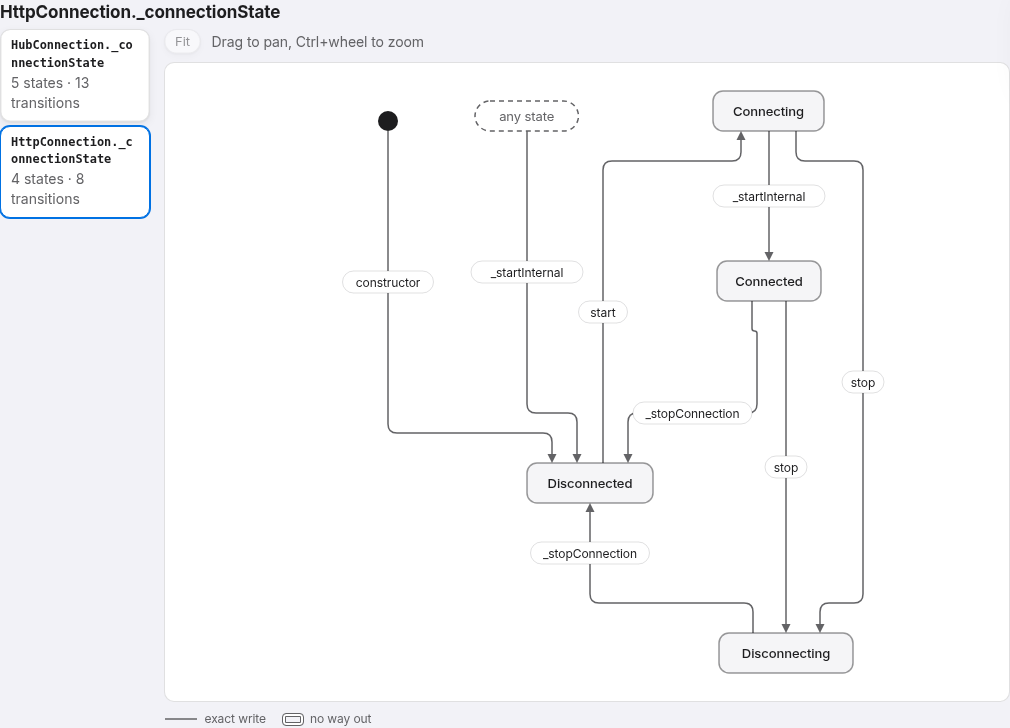
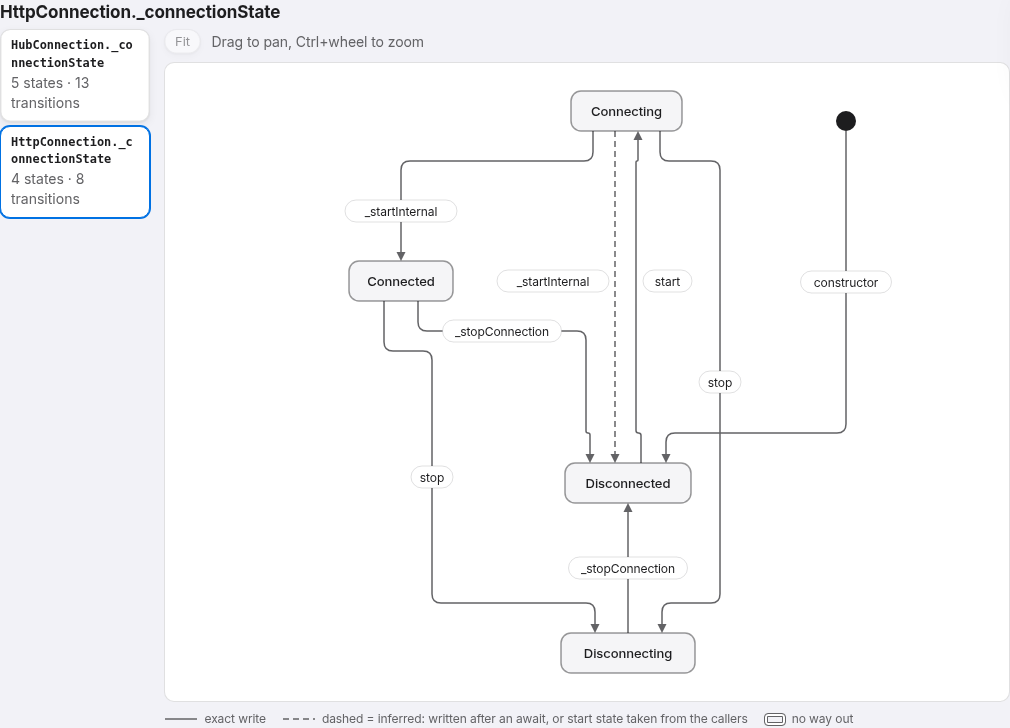
States lens: stale entry stays fillable (E1), no stale layout on view change
A write or call after an await keeps the entry value as a stale entry (fromEntry + stale,
knownEntry + knownStale); a catch with no visible try write keeps it too. StateDiagram no
longer draws the previous view's layout for the render after the view changes (first-load
TypeError reading 'confidence').

Claude-Session: https://claude.ai/code/session_011RUAPM4himdtifnGcShh8m

diff --git a/packages/frontend/typescript/src/state.ts b/packages/frontend/typescript/src/state.ts
@@ -60,14 +60,14 @@ interface KS {
  * `entry` on the map: keys that are absent still hold their entry value (nothing wrote, tested or awaited since the
  * function started). Without it an absent key is plain unknown.
  */
-type EnvMap = Map<string, KS> & { entry?: boolean };
+type EnvMap = Map<string, KS> & { entry?: boolean; entryStale?: boolean };
 type Env = EnvMap | null;
 const entryEnv = (): EnvMap => {
   const m: EnvMap = new Map();
   m.entry = true;
   return m;
 };
-const entryKS = (r: KS): KS => ({ holder: r.holder, receiver: r.receiver, set: null, stale: false, guards: [], texts: [], entry: true });
+const entryKS = (r: KS, stale = false): KS => ({ holder: r.holder, receiver: r.receiver, set: null, stale, guards: [], texts: [], entry: true });
 const unknownKS = (r: KS): KS => ({ holder: r.holder, receiver: r.receiver, set: null, stale: false, guards: [], texts: [] });
 
 interface Spec {
@@ -177,6 +177,7 @@ function clone(env: Env): Env {
   if (!env) return null;
   const out: EnvMap = new Map();
   if (env.entry) out.entry = true;
+  if (env.entryStale) out.entryStale = true;
   for (const [k, v] of env) out.set(k, cloneKS(v));
   return out;
 }
@@ -185,13 +186,14 @@ function join(a: Env, b: Env): Env {
   if (!b) return a;
   const out: EnvMap = new Map();
   out.entry = !!(a.entry && b.entry);
+  if (out.entry && (a.entryStale || b.entryStale)) out.entryStale = true;
   const keys = new Set([...a.keys(), ...b.keys()]);
   for (const k of keys) {
     const x0 = a.get(k);
     const y0 = b.get(k);
     const ref = (x0 ?? y0)!;
-    const x = x0 ?? (a.entry ? entryKS(ref) : undefined);
-    const y = y0 ?? (b.entry ? entryKS(ref) : undefined);
+    const x = x0 ?? (a.entry ? entryKS(ref, a.entryStale) : undefined);
+    const y = y0 ?? (b.entry ? entryKS(ref, b.entryStale) : undefined);
     if (!x || !y) {
       // Unknown on one side: absent means entry when the result keeps the marker, so spell the unknown out.
       if (out.entry) out.set(k, unknownKS(ref));
@@ -212,7 +214,7 @@ function join(a: Env, b: Env): Env {
 function sig(env: Env): string {
   if (!env) return "dead";
   return (
-    (env.entry ? "E|" : "|") +
+    (env.entry ? (env.entryStale ? "E!|" : "E|") : "|") +
     [...env.entries()]
       .map(([k, v]) => `${k}=${v.set ? [...v.set].sort().join(",") : "*"}${v.stale ? "!" : ""}${v.entry ? "E" : ""}`)
       .sort()
@@ -222,10 +224,10 @@ function sig(env: Env): string {
 /** An await or yield: known sets may be out of date, and the entry value is no longer the current one. */
 function markStale(env: Env): void {
   if (!env) return;
-  env.entry = false;
+  // The entry value stays fillable but stale (E1).
+  if (env.entry) env.entryStale = true;
   for (const v of env.values()) {
-    if (v.set) v.stale = true;
-    v.entry = false;
+    if (v.set || v.entry) v.stale = true;
   }
 }
 
@@ -718,7 +720,7 @@ export function emitState(h: StateHelpers): StateOutput {
     else if (hd.domain) target = new Set(hd.domain.filter((v) => !spec.values.includes(v)));
     else target = null;
     const own = env.get(key);
-    const cur: KS | undefined = own ?? (env.entry ? entryKS({ holder: hd, receiver: spec.receiver } as KS) : undefined);
+    const cur: KS | undefined = own ?? (env.entry ? entryKS({ holder: hd, receiver: spec.receiver } as KS, env.entryStale) : undefined);
     let next: Set<string> | null;
     let stale = false;
     if (target === null) {
@@ -818,6 +820,7 @@ export function emitState(h: StateHelpers): StateOutput {
       if (ks.stale) rec.stale = true;
     } else if (atEntry) {
       rec.fromEntry = true;
+      if (ks ? ks.stale : env?.entryStale) rec.stale = true;
     }
     if (ks && ks.guards.length > 0 && match) {
       rec.guards = [...ks.guards];
@@ -913,7 +916,10 @@ export function emitState(h: StateHelpers): StateOutput {
     for (const hd of declared) {
       if (hd.classId !== cd.id || state[hd.id]) continue;
       const ks = env.get(keyOf(hd, "this"));
-      if (ks ? ks.entry === true : env.entry === true) entry.push(hd.id);
+      if (ks ? ks.entry === true : env.entry === true) {
+        entry.push(hd.id);
+        if (ks ? ks.stale : env.entryStale) stale.push(hd.id);
+      }
     }
     if (Object.keys(state).length === 0 && entry.length === 0) return;
     callAttrs.set(call, {
@@ -1167,6 +1173,7 @@ export function emitState(h: StateHelpers): StateOutput {
     const out = clone(entry);
     if (!out) return out;
     out.entry = false;
+    out.entryStale = false;
     for (const [k, v] of out) out.set(k, unknownKS(v));
     return out;
   };
@@ -1428,9 +1435,15 @@ export function emitState(h: StateHelpers): StateOutput {
     const followed = col.writes.filter((w) => lastThrow >= w.at);
     const touched = new Set(col.writes.map((w) => w.key));
     for (const key of touched) {
-      const base = entry?.get(key);
-      const ws = followed.filter((w) => w.key === key);
       const any = col.writes.find((w) => w.key === key)!;
+      // An absent key still holds the entry value when the env keeps the marker.
+      const base = entry?.get(key) ?? (entry?.entry ? entryKS({ holder: any.hd, receiver: any.receiver } as KS, entry.entryStale) : undefined);
+      const ws = followed.filter((w) => w.key === key);
+      if (base?.entry && base.set === null && ws.length === 0) {
+        // No write can be seen by the catch: it still holds the entry value (E1 keeps it, stale or not).
+        exc.set(key, cloneKS(base));
+        continue;
+      }
       if (!base || base.set === null) {
         exc.set(key, unknownKS({ holder: any.hd, receiver: any.receiver } as KS));
         continue;

diff --git a/packages/lens/states/test/states.test.ts b/packages/lens/states/test/states.test.ts
@@ -58,11 +58,11 @@ const write = (w: W): IRNode => {
 };
 const test = (id: string, holderId: string, fnName: string, values: string[], extra: Record<string, unknown> = {}): IRNode =>
   fx.node(id, "state", "state.test", { parent: `${FILE}#${fnName}`, span: at(40), attrs: { holder: holderId, values, arm: "arm1", ...extra } });
-const call = (from: string, to: string | string[], known?: Record<string, string[]>, confidence?: "exact" | "inferred", entry?: string[]): IREdge =>
+const call = (from: string, to: string | string[], known?: Record<string, string[]>, confidence?: "exact" | "inferred", entry?: string[], stale?: string[]): IREdge =>
   fx.edge(`${FILE}#${from}`, Array.isArray(to) ? to.map((t) => `${FILE}#${t}`) : `${FILE}#${to}`, "calls", "calls.call", {
     span: at(60),
     ...(confidence ? { confidence } : {}),
-    ...(known || entry ? { attrs: { ...(known ? { knownState: known } : {}), ...(entry ? { knownEntry: Object.fromEntries(entry.map((h) => [h, true])) } : {}) } } : {}),
+    ...(known || entry ? { attrs: { ...(known ? { knownState: known } : {}), ...(stale ? { knownStale: stale } : {}), ...(entry ? { knownEntry: Object.fromEntries(entry.map((h) => [h, true])) } : {}) } } : {}),
   });
 
 const q = (v: string) => JSON.stringify(v);
@@ -228,6 +228,29 @@ describe("cross-call entry sets", () => {
     const m = stateMachines(fx.view({ nodes, edges })).machines[0] as Machine;
     const arcs2 = m.transitions.filter((t) => t.to === D("Disconnected")).map((t) => `${displayValue(t.from)}>${displayValue(t.to)}:${t.confidence}`);
     expect(arcs2.sort()).toEqual(["Connected>Disconnected:inferred", "Disconnecting>Disconnected:inferred"]);
+  });
+
+  it("fills a stale-entry write from a caller's knownState: inferred arc, no star (E1)", () => {
+    const nodes = [
+      fileNode(), fn("go", 10), fn("caller", 20),
+      holder(G, "Conn.state", [q("A"), q("X")]),
+      write({ holder: G, fn: "caller", value: q("A"), op: "init" }),
+      write({ holder: G, fn: "go", value: q("X"), fromEntry: true, stale: true }),
+    ];
+    const m = stateMachines(fx.view({ nodes, edges: [call("caller", "go", { [G]: [q("A")] })] })).machines[0] as Machine;
+    expect(m.transitions.filter((t) => t.to === q("X")).map((t) => `${displayValue(t.from)}>${displayValue(t.to)}:${t.confidence}`)).toEqual(["A>X:inferred"]);
+  });
+
+  it("recurses through a caller with knownEntry together with knownStale (E1)", () => {
+    const nodes = [
+      fileNode(), fn("go", 10), fn("mid", 20), fn("top", 30),
+      holder(G, "Conn.state", [q("A"), q("X")]),
+      write({ holder: G, fn: "top", value: q("A"), op: "init" }),
+      write({ holder: G, fn: "go", value: q("X"), fromEntry: true, stale: true }),
+    ];
+    const edges = [call("mid", "go", undefined, undefined, [G], [G]), call("top", "mid", { [G]: [q("A")] })];
+    const m = stateMachines(fx.view({ nodes, edges })).machines[0] as Machine;
+    expect(m.transitions.filter((t) => t.to === q("X")).map((t) => `${displayValue(t.from)}>${displayValue(t.to)}:${t.confidence}`)).toEqual(["A>X:inferred"]);
   });
 
   it("terminates on a knownEntry cycle a -> b -> a and keeps the star (c)", () => {

diff --git a/apps/web/src/components/StateDiagram.tsx b/apps/web/src/components/StateDiagram.tsx
@@ -87,7 +87,9 @@ export function MachineSvg({ view, laid, hot = null, selected = null, viewBox, s
     >
       <g className="sm-arcs">
         {laid.arcs.map((a) => {
-          const t = byTransition.get(a.id) as StateMachineTransition;
+          // A layout of another view (the view changed and the new layout is not ready) has arcs this view lacks: skip them.
+          const t = byTransition.get(a.id);
+          if (!t) return null;
           const pickOf = (x: StateMachineTransition) => onPick?.({ ...(x.sites[0]?.span ? { span: x.sites[0].span } : {}), label: arcName(view, x), transition: x });
           const pick = () => pickOf(t);
           // Two lines can sit under one pointer (a crossing, parallel runs): the line nearest the pointer is the one meant.
@@ -204,7 +206,9 @@ interface Box {
 
 /** One machine, laid out with elkjs and drawn as SVG. Zoom-to-fit by default; drag to pan, ctrl+wheel to zoom. */
 export function StateDiagram({ view, onPick, selected = null, solve = solveInWorker }: StateDiagramProps): ReactElement {
-  const [laid, setLaid] = useState<LaidMachine | null>(null);
+  // The layout is kept with the view it was made for: for one render after `view` changes it still belongs to the old view.
+  const [laidFor, setLaid] = useState<{ view: StateMachineView; laid: LaidMachine } | null>(null);
+  const laid = laidFor && laidFor.view === view ? laidFor.laid : null;
   const [failed, setFailed] = useState<string | null>(null);
   const [hot, setHot] = useState<string | null>(null);
   const [box, setBox] = useState<Box | null>(null);
@@ -219,7 +223,7 @@ export function StateDiagram({ view, onPick, selected = null, solve = solveInWor
     setBox(null);
     layoutMachine(view, withTimeout(solve)).then(
       (l) => {
-        if (!cancelled) setLaid(l);
+        if (!cancelled) setLaid({ view, laid: l });
       },
       (e: Error) => {
         if (!cancelled) setFailed(e.message);

diff --git a/packages/frontend/typescript/test/states.test.ts b/packages/frontend/typescript/test/states.test.ts
@@ -131,9 +131,18 @@ describe("review fixes", () => {
     expect(c!.attrs.from).toBeUndefined();
     expect(c!.attrs.fromEntry).toBeUndefined();
   });
-  it("entry: a first write is fromEntry, one after an await is not", async () => {
+  it("entry: a first write is fromEntry, one after an await is fromEntry + stale (E1)", async () => {
     expect((await wr("Entry.go"))[0]!.attrs).toMatchObject({ fromEntry: true });
-    expect((await wr("Entry.goAwait"))[0]!.attrs.fromEntry).toBeUndefined();
+    expect((await wr("Entry.go"))[0]!.attrs.stale).toBeUndefined();
+    expect((await wr("Entry.goAwait"))[0]!.attrs).toMatchObject({ fromEntry: true, stale: true });
+  });
+  it("entry: a catch write keeps the stale entry when no try write can be seen (E1)", async () => {
+    const ws = await wr("Entry.tryCatch");
+    expect(ws.find((w) => w.attrs.value === "S.X")!.attrs).toMatchObject({ fromEntry: true, stale: true });
+  });
+  it("entry: a call after an await has knownEntry and knownStale (E1)", async () => {
+    const inner = (await calls("Entry.outerAwait")).find((e) => e.attrs?.knownEntry);
+    expect(inner?.attrs).toMatchObject({ knownEntry: ["states/review.ts#Entry.s"], knownStale: ["states/review.ts#Entry.s"] });
   });
   it("entry: a call before any write has knownEntry; a tested call has knownState", async () => {
     const inner = (await calls("Entry.outer")).find((e) => e.attrs?.knownEntry);

diff --git a/apps/web/test/stateDiagram.test.tsx b/apps/web/test/stateDiagram.test.tsx
@@ -93,6 +93,13 @@ describe("MachineSvg", async () => {
     expect(hot).toContain("sm-state--hot");
   });
 
+  it("draws a layout of another view without throwing: arcs the view lacks are skipped (first-load error)", () => {
+    // The page keeps the old layout for one render after the view changes; reading `.confidence` of the missing transition threw.
+    const other = { ...twoStateMachine, transitions: [] };
+    expect(() => renderToStaticMarkup(<MachineSvg view={other} laid={laid} />)).not.toThrow();
+    expect(findAll(<MachineSvg view={other} laid={laid} />, (e) => hasClass(e, "sm-arc")).length).toBe(0);
+  });
+
   it("shows a legend for the kinds in use", () => {
     const l = renderToStaticMarkup(<Legend view={hubConnectionMachine} />);
     expect(l).toContain("exact write");

diff --git a/packages/frontend/typescript/test/fixtures/sample-ts/states/review.ts b/packages/frontend/typescript/test/fixtures/sample-ts/states/review.ts
@@ -34,6 +34,18 @@ export class Entry {
   outerTested() {
     if (this.s === S.A) this.inner();
   }
+  async outerAwait() {
+    await a();
+    this.inner();
+  }
+  async tryCatch() {
+    try {
+      await a();
+      this.s = S.B;
+    } catch {
+      this.s = S.X;
+    }
+  }
   inner() {}
 }
 
